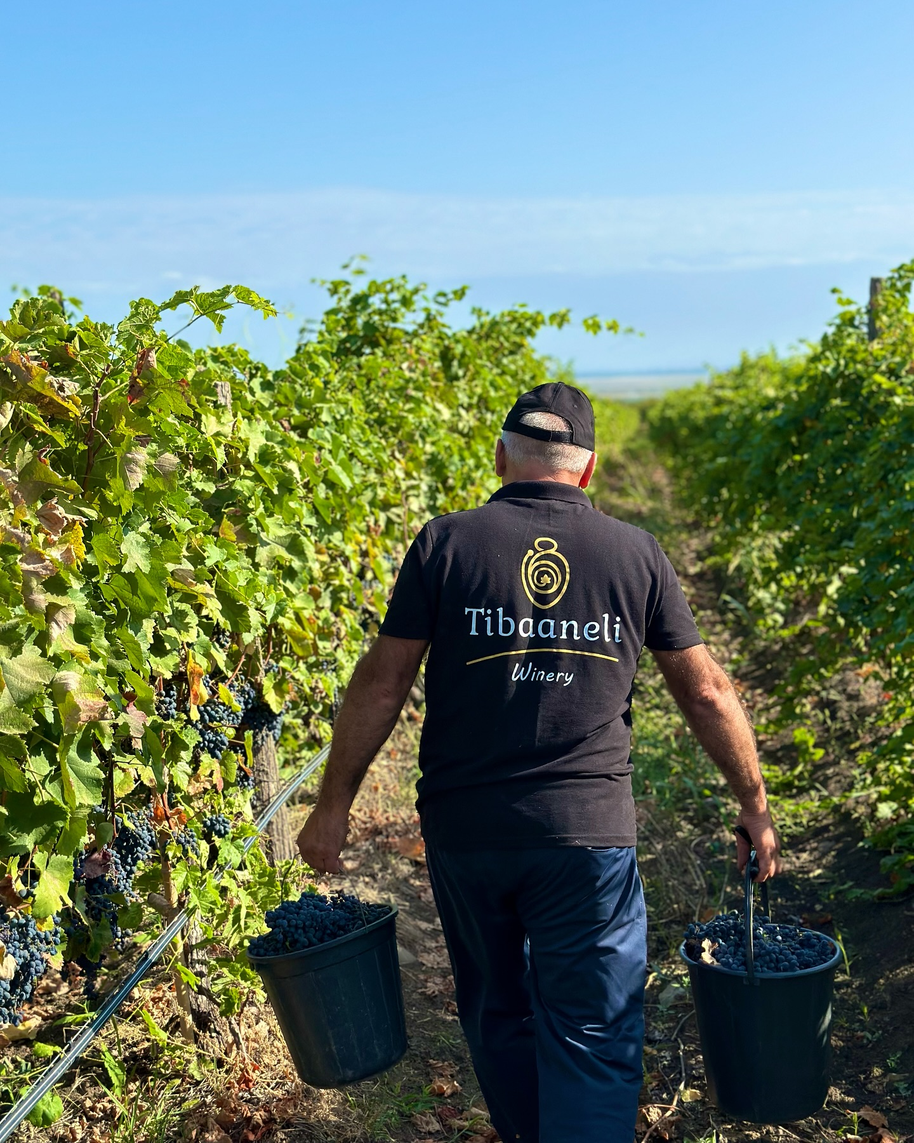
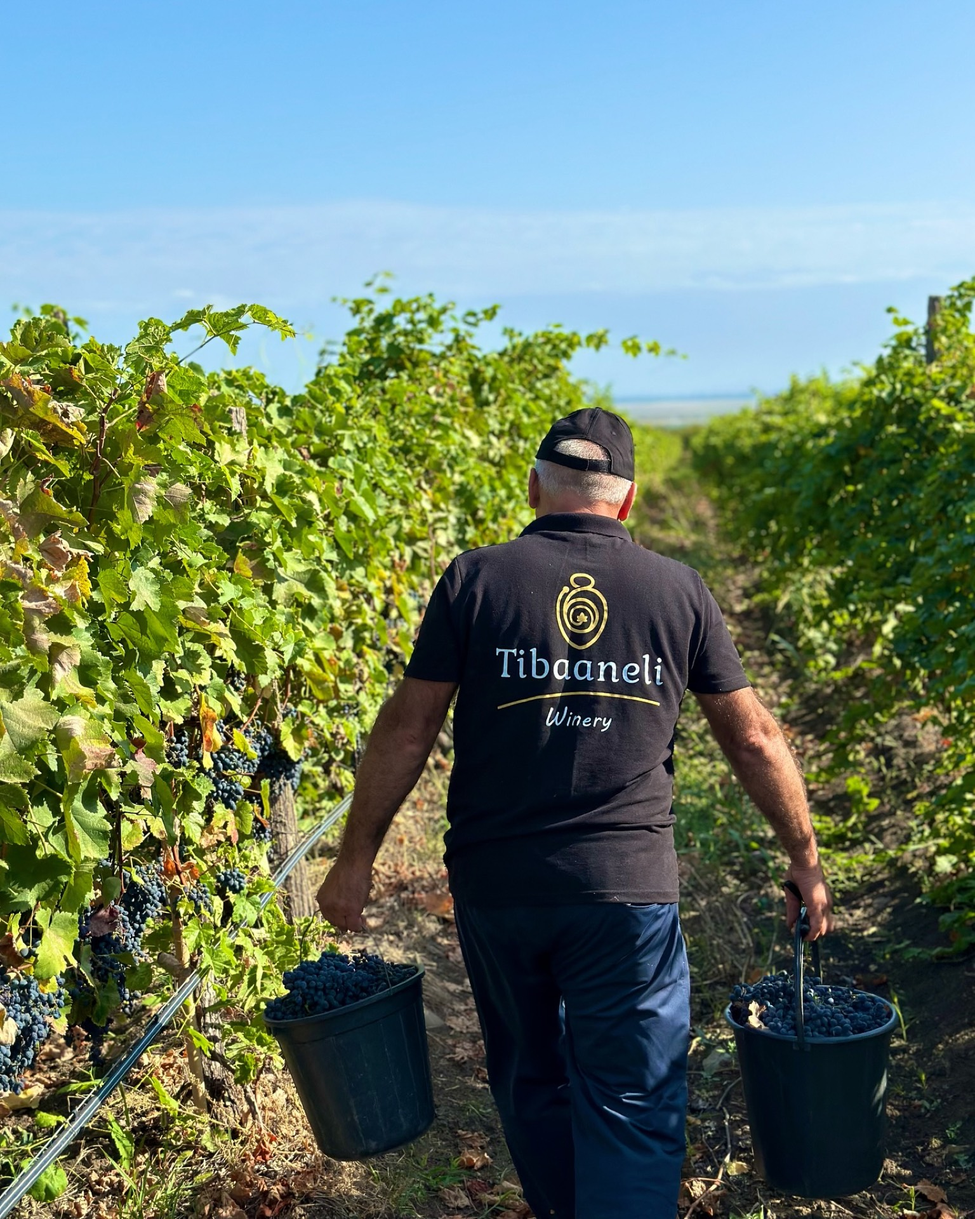
feat: add JPEG compression script with customizable options and README documentation

diff --git a/README.md b/README.md
@@ -54,6 +54,40 @@ ng e2e
 
 Angular CLI does not come with an end-to-end testing framework by default. You can choose one that suits your needs.
 
+## Compressing large JPEG images
+
+This project includes a macOS-friendly batch image optimizer for `src/assets/images`.
+
+Create optimized copies next to the originals:
+
+```bash
+npm run images:compress
+```
+
+Use custom resize/quality values:
+
+```bash
+npm run images:compress -- --max-width=1600 --quality=65
+```
+
+Write optimized copies into another folder for review:
+
+```bash
+npm run images:compress -- --output-root=/tmp/tibaaneli-images
+```
+
+Replace the original JPEGs in place once you are happy with the output:
+
+```bash
+npm run images:compress:replace -- --max-width=1920 --quality=70
+```
+
+Notes:
+
+- The script only processes `.jpg` and `.jpeg` files.
+- By default it creates sibling files like `vineyard-2.optimized.jpg` so existing app references stay untouched.
+- It uses the built-in macOS `sips` tool, so no extra native image packages are required.
+
 ## Additional Resources
 
 For more information on using the Angular CLI, including detailed command references, visit the [Angular CLI Overview and Command Reference](https://angular.dev/tools/cli) page.
